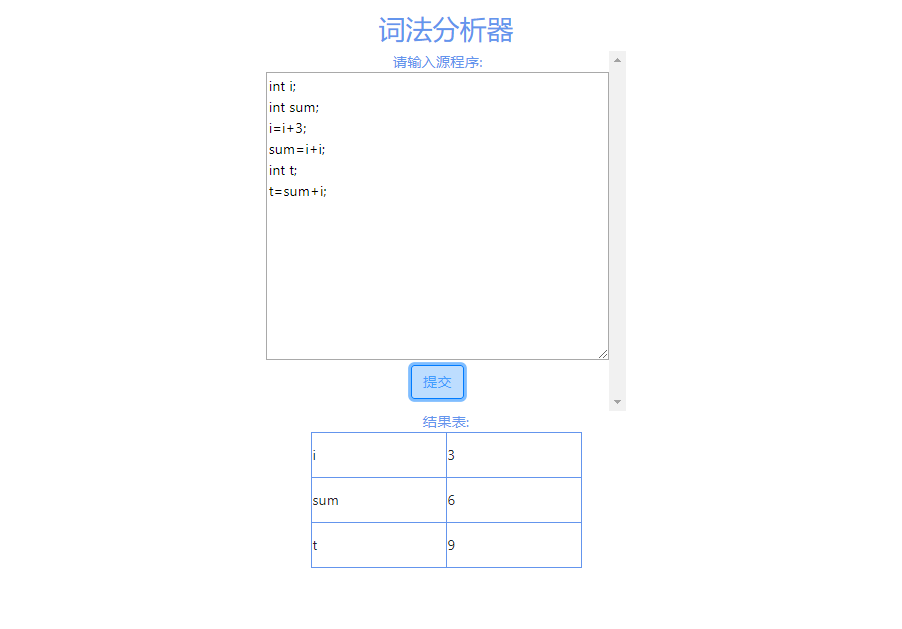
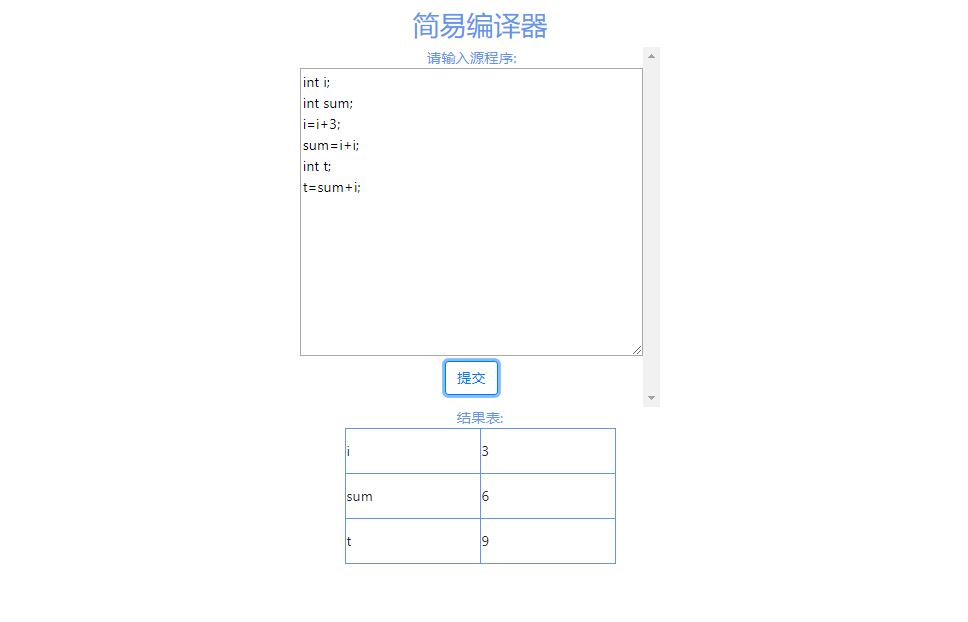
init

Changed region(s): [[0.2794, 0.0, 0.6829, 0.5804], [0.3415, 0.5804, 0.6519, 0.9164]]

diff --git a/server/compiler.html b/server/compiler.html
@@ -2,7 +2,7 @@
 <html>
 
 <head>
-    <title>词法分析器</title>
+    <title>简易编译器</title>
     <script src="https://cdn.jsdelivr.net/npm/vue"></script>
     <link rel="stylesheet" href="https://stackpath.bootstrapcdn.com/bootstrap/4.1.1/css/bootstrap.min.css"
           integrity="sha384-WskhaSGFgHYWDcbwN70/dfYBj47jz9qbsMId/iRN3ewGhXQFZCSftd1LZCfmhktB" crossorigin="anonymous">
@@ -31,7 +31,7 @@
 <div id="app" style="text-align: center">
     <div align="center">
         <h1 id="title" style="font-size: 30px;color: cornflowerblue;margin-top: 20px">
-            词法分析器
+            简易编译器
         </h1>
 
 
